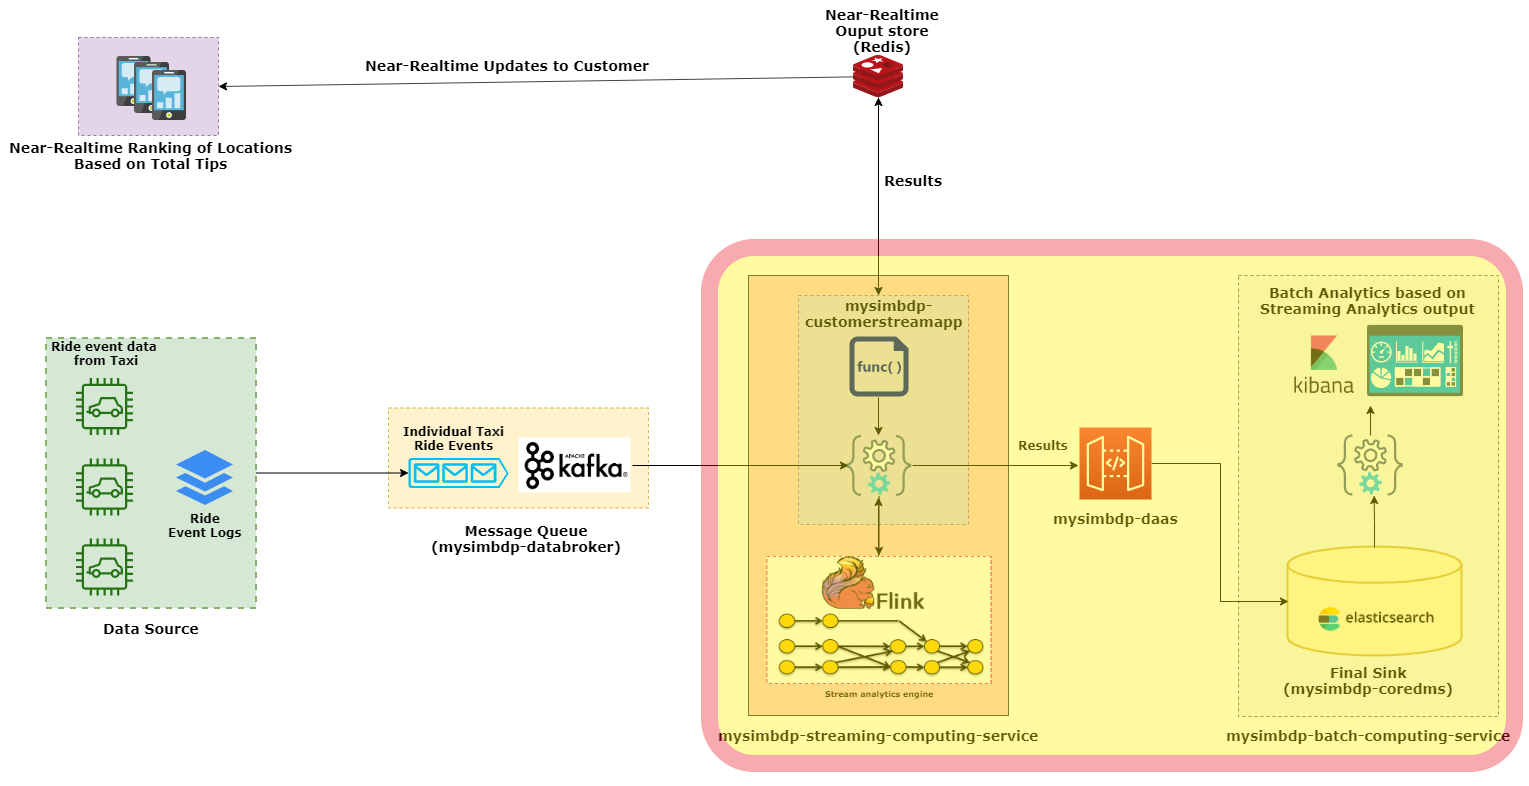
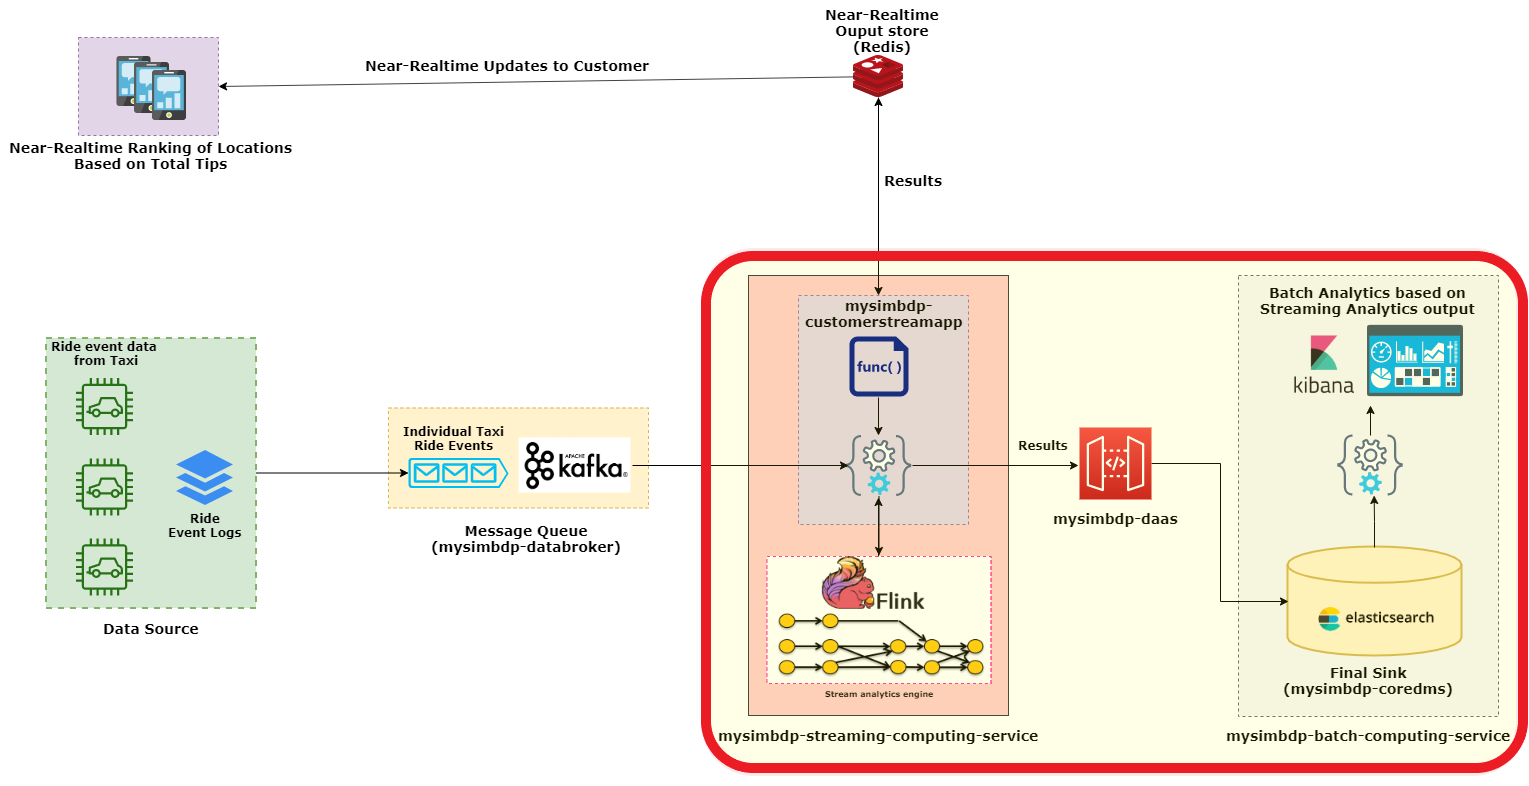
Completed 3.2

diff --git a/code/customer-code/customer_realtime-view.py b/code/customer-code/customer_realtime-view.py
@@ -1,9 +1,11 @@
 import json
 import pandas as pd
 import matplotlib.pyplot as plt
-import redis
+import redis,os
 
 r = redis.Redis(host='localhost', port=6379, db=0)
+
+curr_path = os.path.dirname(os.path.abspath(__file__))
 
 
 df = pd.DataFrame({'location_id': [], 'total_tip': []})
@@ -29,7 +31,7 @@ def updateDataframe(location_id,total_tip):
     df_plot = df.nlargest(5, 'total_tip')
     
     df_plot.plot(kind='bar',x='location_id',y='total_tip',color=['black', 'red', 'green', 'blue', 'cyan'])
-    plt.savefig("test.png")
+    plt.savefig(curr_path+"/../../reports/near-realtime_results/near-realtime-bar-chart.png")
     plt.clf()
 
     print(df_plot)

diff --git a/reports/Assignment-3-Design.md b/reports/Assignment-3-Design.md
@@ -222,7 +222,8 @@ A demo of the streaming analytics running in the test environment can be seen [h
 
 **Answer:**
 
-In my implementaion of streaming analysis, I have already implemented the feature of storing the analytics results into **mysimbdp-coredms**. Here, I have used `elasticsearch` as **mysimbdp-coredms**. My design is highlighted with red border below. Here my **customerstreamapp** sends the results of the streaming analysis to **mysimbdp-coredms** using the API provided by **mysimbdp-daas**. As I am using a new technology as my **mysimbdp-coredms**, so I conot reusing my previous implementation 
+In my implementaion of streaming analysis, I have already implemented the feature of storing the analytics results into **mysimbdp-coredms**. Here, I have used `elasticsearch` as **mysimbdp-coredms**. My design is highlighted with a red border below. Here my **customerstreamapp** stores the results of the streaming analysis to **mysimbdp-coredms** using the API provided by **mysimbdp-daas** (Here I just used the REST API provided by `elasticsearch`).
+
 ![sink](images/3-1.png)
 
 As far as scalabilty is concerned, `elasticsearch` is distributed in nature so it can scale horizontally as needed. But that is also true for the other data storage technologies like `Cassandra` and `MongoDB`.
@@ -231,12 +232,54 @@ But, the area where `elasticsearch` excels is its exceptionally faster query res
 
 **Implementation:**
 
+First, we define the schema in **mysimbdp-coredms** for storing the streaming results. The schema is created by running the [coredms-schema-upload](../code/customer-code/coredms-schema-upload) bash script. This script creates an index named **nyc-idx** in `elasticsearch` and defines the mapping of incoming data.
+
 In my **customerstreamapp**, I have added `elasticsearch` as a sink for storing streaming results in which I have passed a class named *ESTotalTipInserter* (`ElasticsearchSinkFunction`).
 
 ![reduce](images/elastic.PNG)
 
-The *ESTotalTipInserter* takes each streaming output Tuple3 containing (location_id, total_tip, window end timestamp) and makes a new JSON object using their values. There is one additional field named *location* which contains the latitude,longitude pair of the pick-up location_id. 
-
-As previously mentioned, the current [dataset](https://www1.nyc.gov/site/tlc/about/tlc-trip-record-data.page) found in the offcial website doesn't contain the (lat,lon) values for each taxi rides. However, a [geoJSON format](https://geo.nyu.edu/catalog/nyu-2451-36743) of the 263 zones can be found in the Spatial Data Repository of **New York University (NYU).** I used this dataset to 
-
+The *ESTotalTipInserter* takes each streaming output Tuple3 containing (location_id, total_tip, window end timestamp) and makes a new JSON object using their values. There is one additional field named *location* which contains the latitude,longitude pair of the pick-up location_id. The necessity of this field is discussed below.  
 ![reduce](images/esinserter.PNG)
+
+As previously mentioned, the current [dataset](https://www1.nyc.gov/site/tlc/about/tlc-trip-record-data.page) found in the offcial website doesn't contain the (lat,lon) values for each taxi rides. However, a [geoJSON format](https://geo.nyu.edu/catalog/nyu-2451-36743) of the 263 zones can be found in the Spatial Data Repository of **New York University (NYU).**
+
+To include the pick-up location coordinates in the output of my streaming results, I provided a [customer_transformer](../code/customer-code/customer_transformer.py) app which takes this GeoJSON data and computes the (lat,lon) values for each of the 263 pick-up locations and finally stores them in `Redis` as key-value pairs. Where **key** is the location_id and **value** is the string representation of *lat,lon* value.
+
+*Note: As, here we are adding the location_ids as key to `Redis`, so previously  while storing data to `Redis` for the [customer_realtime-view](../code/customer-code/customer_realtime-view.py) app, we appended them with the letter "L" to avoid replacing the value*
+
+![lat](images/popred.PNG)
+
+My **customerstreamapp** then just polls the  *lat,lon* value from `Redis` (using `Jedis` connector) and completes the JSON object.  
+
+Finally, it creates a POST request for `elasticsearch` and adds the request to Requestindexer, which ultimately sends the result entry to **mysimdp-coredms**(`elasticsearch`).
+
+
+**Q2:** Given the output of streaming analytics stored in mysimbdp-coredms for a long time. Explain a batch analytics that could be used to analyze such historical data. How would you implement it?
+
+**Answer:**
+
+Here again my customers will be able to see the pickup locations of the taxi rides which resulted into maximum tips but as this analysis will be generated from the **bounded data** generated by my streming analytics output, my customers will have the freedom of seeing this batch analytics results based on their specified time-frame (i.e. daily, weekly, monthly etc).
+
+More specifically, the *total_tip* field from the streaming analytics results will be aggregated for the specified time duration and the aggregated *total_tip* value (Sum of *total_tip*) for this time duration will be plotted onto a **coordinate map**, to make this analytics intutive and easy to understand for my customers. The plotting will be grouped by (buckets in `elasticsearch`) location coordinates (geo_point in `Kibana`)
+
+I have already implemented this batch analytics, and the implementation details have already been explained above. Below, is a screenshot of my batch analytics output.
+
+1. First, I select the previously created index from the `Kibana` dashboard and create a new index pattern.
+![lat](images/nyc-idx.PNG)
+
+2. Then I select a *Coordinate Map* visualization.
+![lat](images/cmap.PNG)
+3. By default `Kibana` performs data analysis on the data events of last 15 mins. As, I'm streaming from the CSV dataset of January, 2019, so I changed the time to absolute time.
+
+    I want to perform **batch analytics** on the resultant data of streaming analytics for 24 hours starting from 12AM  January 1st, 2019 till 11.59PM January 1st, 2019.
+    ![lat](images/kibanaTime.PNG)
+
+4. Finally I'm selecting the metrics as shown in the screenshot below. Here, I'm aggregating the *total_tip* field and finding the **Sum** for the specified 24 hour time interval. Also, I'm bucketing (grouping) the documents (1 for each result of my streaming analytics which was outputed during the specified time interval) by the location coordinates. 
+
+    So, the output of batch analytics shows the **Aggregation (Sum)** of total tips for the specified time interval grouped by locations. It plots the locations (geo_points) using *Scaled Circle Markers*, the size of which is proportionate to the amount of the aggregation value. 
+     ![lat](images/map.PNG)
+
+
+
+
+
